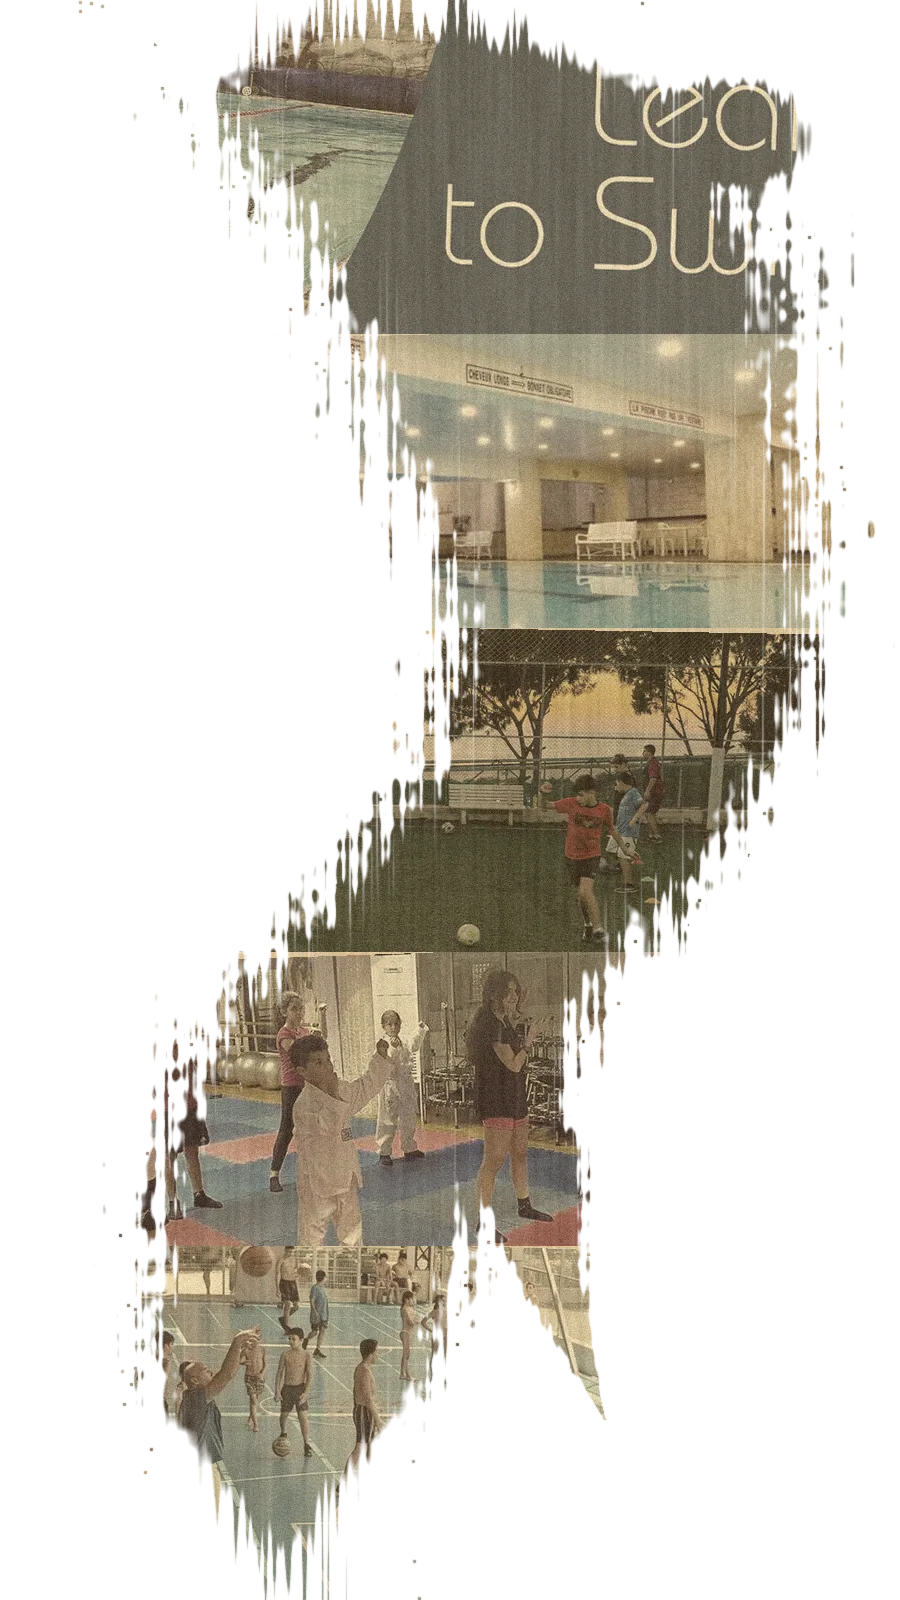
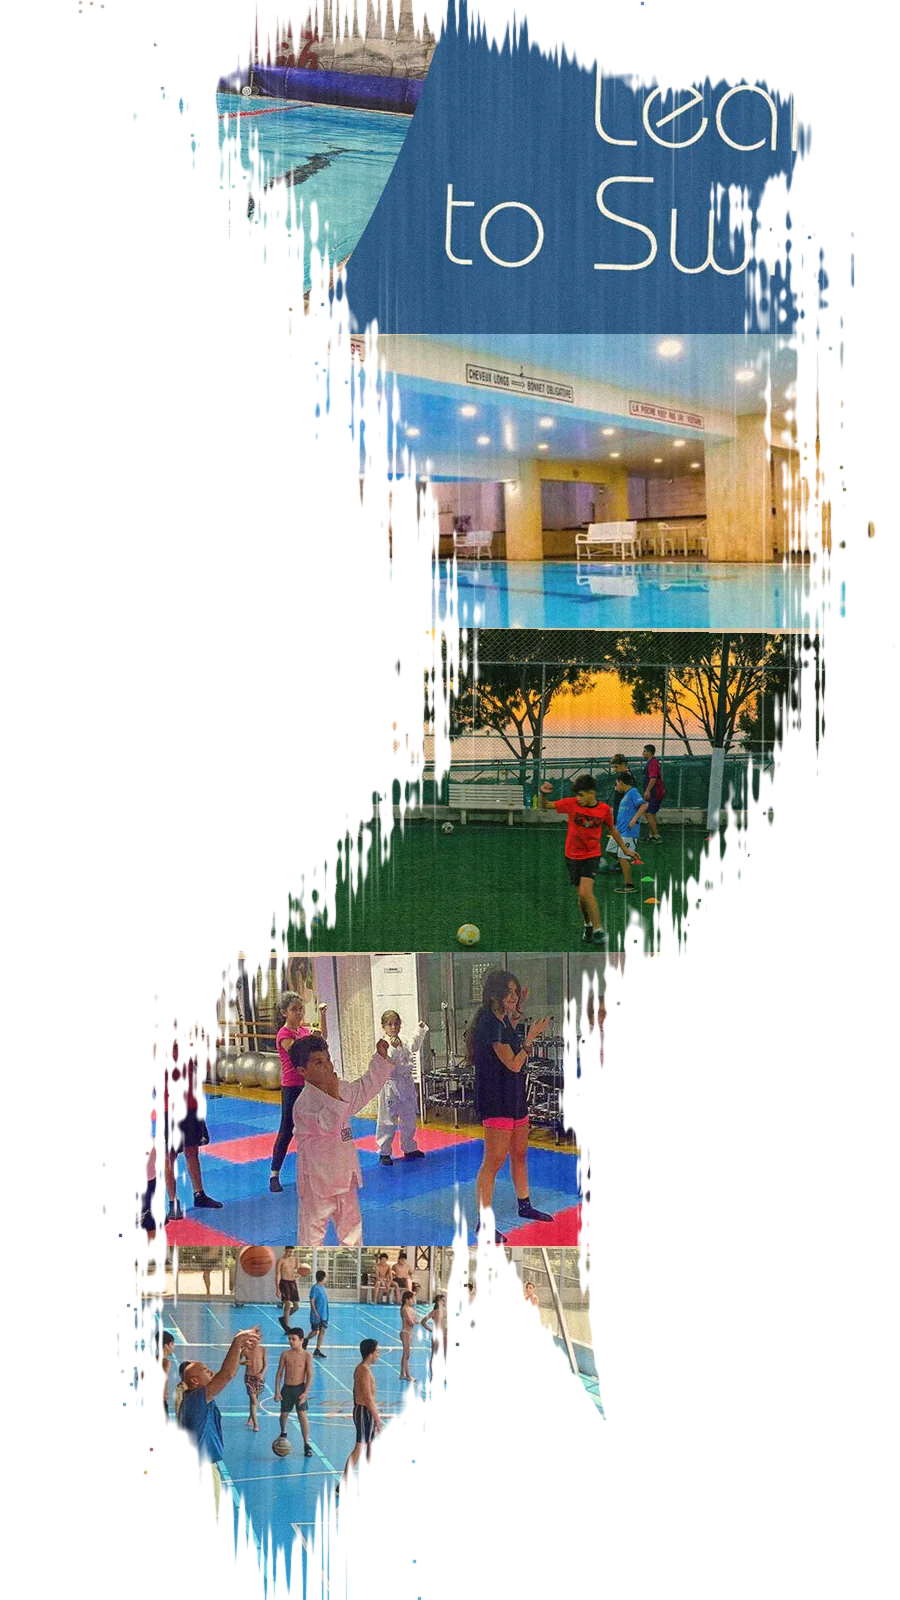
Our Story: bigger, more colourful brush stroke
The photo collage keeps most of the photos' real colour, warmed slightly,
instead of a faded sepia. The stroke now fills the screen height on the
right side and is nearly opaque; the timeline text sits narrower beside
it so both stay clear.

diff --git a/assets/v2.css b/assets/v2.css
@@ -807,18 +807,23 @@ html[data-motion="still"] .planner__card.is-bump { animation: none; }
 /* ---------- Our Story: behind the timeline text, a vertical brush stroke of old club photos ---------- */
 .legacy__right { position: relative; }
 .legacy__track { position: absolute; inset: 0; z-index: 0; pointer-events: none; }
+@media (min-width: 900px) {
+  .legacy__track { inset-inline: 38% calc(var(--gutter) * -1); }
+  .legacy__right > .legacy__list { max-width: 56%; }
+  .legacy__right .era p { text-shadow: 0 0 12px var(--bg), 0 0 4px var(--bg); }
+}
 .legacy__right > .legacy__list { position: relative; z-index: 1; }
 .legacy__brush {
-  position: sticky; z-index: 0; top: calc(var(--header-h, 84px) + 30px);
-  height: min(calc(100vh - var(--header-h, 84px) - 60px), 100%);
-  background: image-set(url("../images/site/story-brush-600.webp") 1x, url("../images/site/story-brush-900.webp") 2x) right center / contain no-repeat;
-  opacity: .55; pointer-events: none;
+  position: sticky; z-index: 0; top: calc(var(--header-h, 84px) + 12px);
+  height: min(calc(100vh - var(--header-h, 84px) - 24px), 100%);
+  background: image-set(url("../images/site/story-brush-600.webp") 1x, url("../images/site/story-brush-900.webp") 2x) right center / auto 118% no-repeat;
+  opacity: .92; pointer-events: none;
   --paint: 0;
   -webkit-mask-image: linear-gradient(to bottom, #000 0, #000 calc(var(--paint) * 100%), transparent calc(var(--paint) * 100% + 9%));
           mask-image: linear-gradient(to bottom, #000 0, #000 calc(var(--paint) * 100%), transparent calc(var(--paint) * 100% + 9%));
 }
 html[data-motion="still"] .legacy__brush { --paint: 1.2 !important; }
-@media (max-width: 899px) { .legacy__brush { opacity: .28; background-position: center; } }
+@media (max-width: 899px) { .legacy__brush { opacity: .35; background-position: center; } }
 
 /* ---------- Hospitality & Events: occasion panels, slanted the other way from Community ---------- */
 .occs { display: grid; gap: .75rem; }
